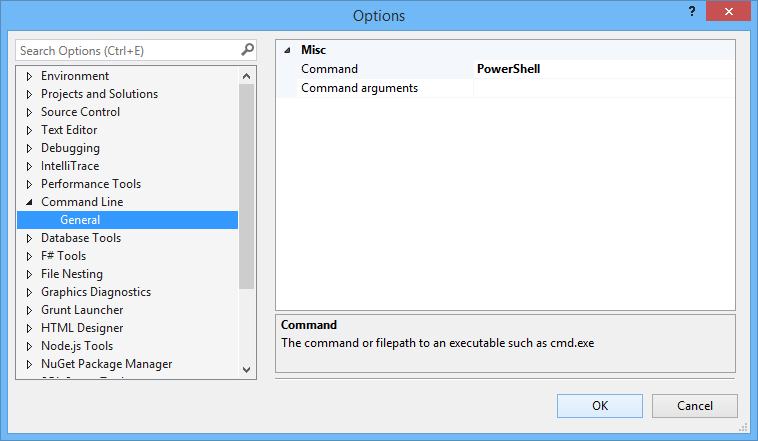
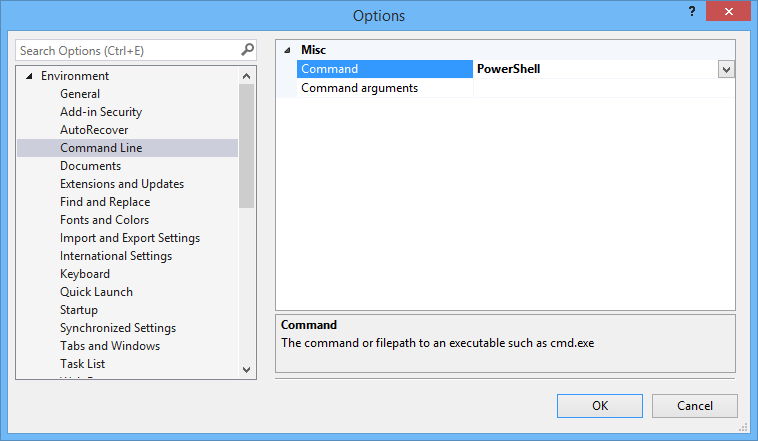
Moved options under "Environment"

diff --git a/src/OpenCommandLinePackage.cs b/src/OpenCommandLinePackage.cs
@@ -14,7 +14,7 @@ namespace MadsKristensen.OpenCommandLine
     [InstalledProductRegistration("#110", "#112", Version, IconResourceID = 400)]
     [ProvideMenuResource("Menus.ctmenu", 1)]
     [ProvideAutoLoad(UIContextGuids80.SolutionExists)]
-    [ProvideOptionPage(typeof(Options), "Command Line", "General", 101, 104, true, new[] { "cmd", "powershell", "bash" })]
+    [ProvideOptionPage(typeof(Options), "Environment", "Command Line", 101, 104, true, new[] { "cmd", "powershell", "bash" })]
     [Guid(GuidList.guidOpenCommandLinePkgString)]
     public sealed class OpenCommandLinePackage : Package
     {
@@ -34,20 +34,20 @@ namespace MadsKristensen.OpenCommandLine
 
         private void OpenCmd(object sender, EventArgs e)
         {
-            var path = GetPath();
+            string folder = GetFolderPath();
 
-            if (string.IsNullOrEmpty(path))
+            if (string.IsNullOrEmpty(folder))
                 return;
 
-            Options options = this.GetDialogPage(typeof(Options)) as Options;
+            Options options = GetDialogPage(typeof(Options)) as Options;
 
             ProcessStartInfo start = new ProcessStartInfo(options.Command, options.Arguments);
-            start.WorkingDirectory = path;
+            start.WorkingDirectory = folder;
 
             System.Diagnostics.Process.Start(start);
         }
 
-        private static string GetPath()
+        private static string GetFolderPath()
         {
             Window2 window = _dte.ActiveWindow as Window2;
 
